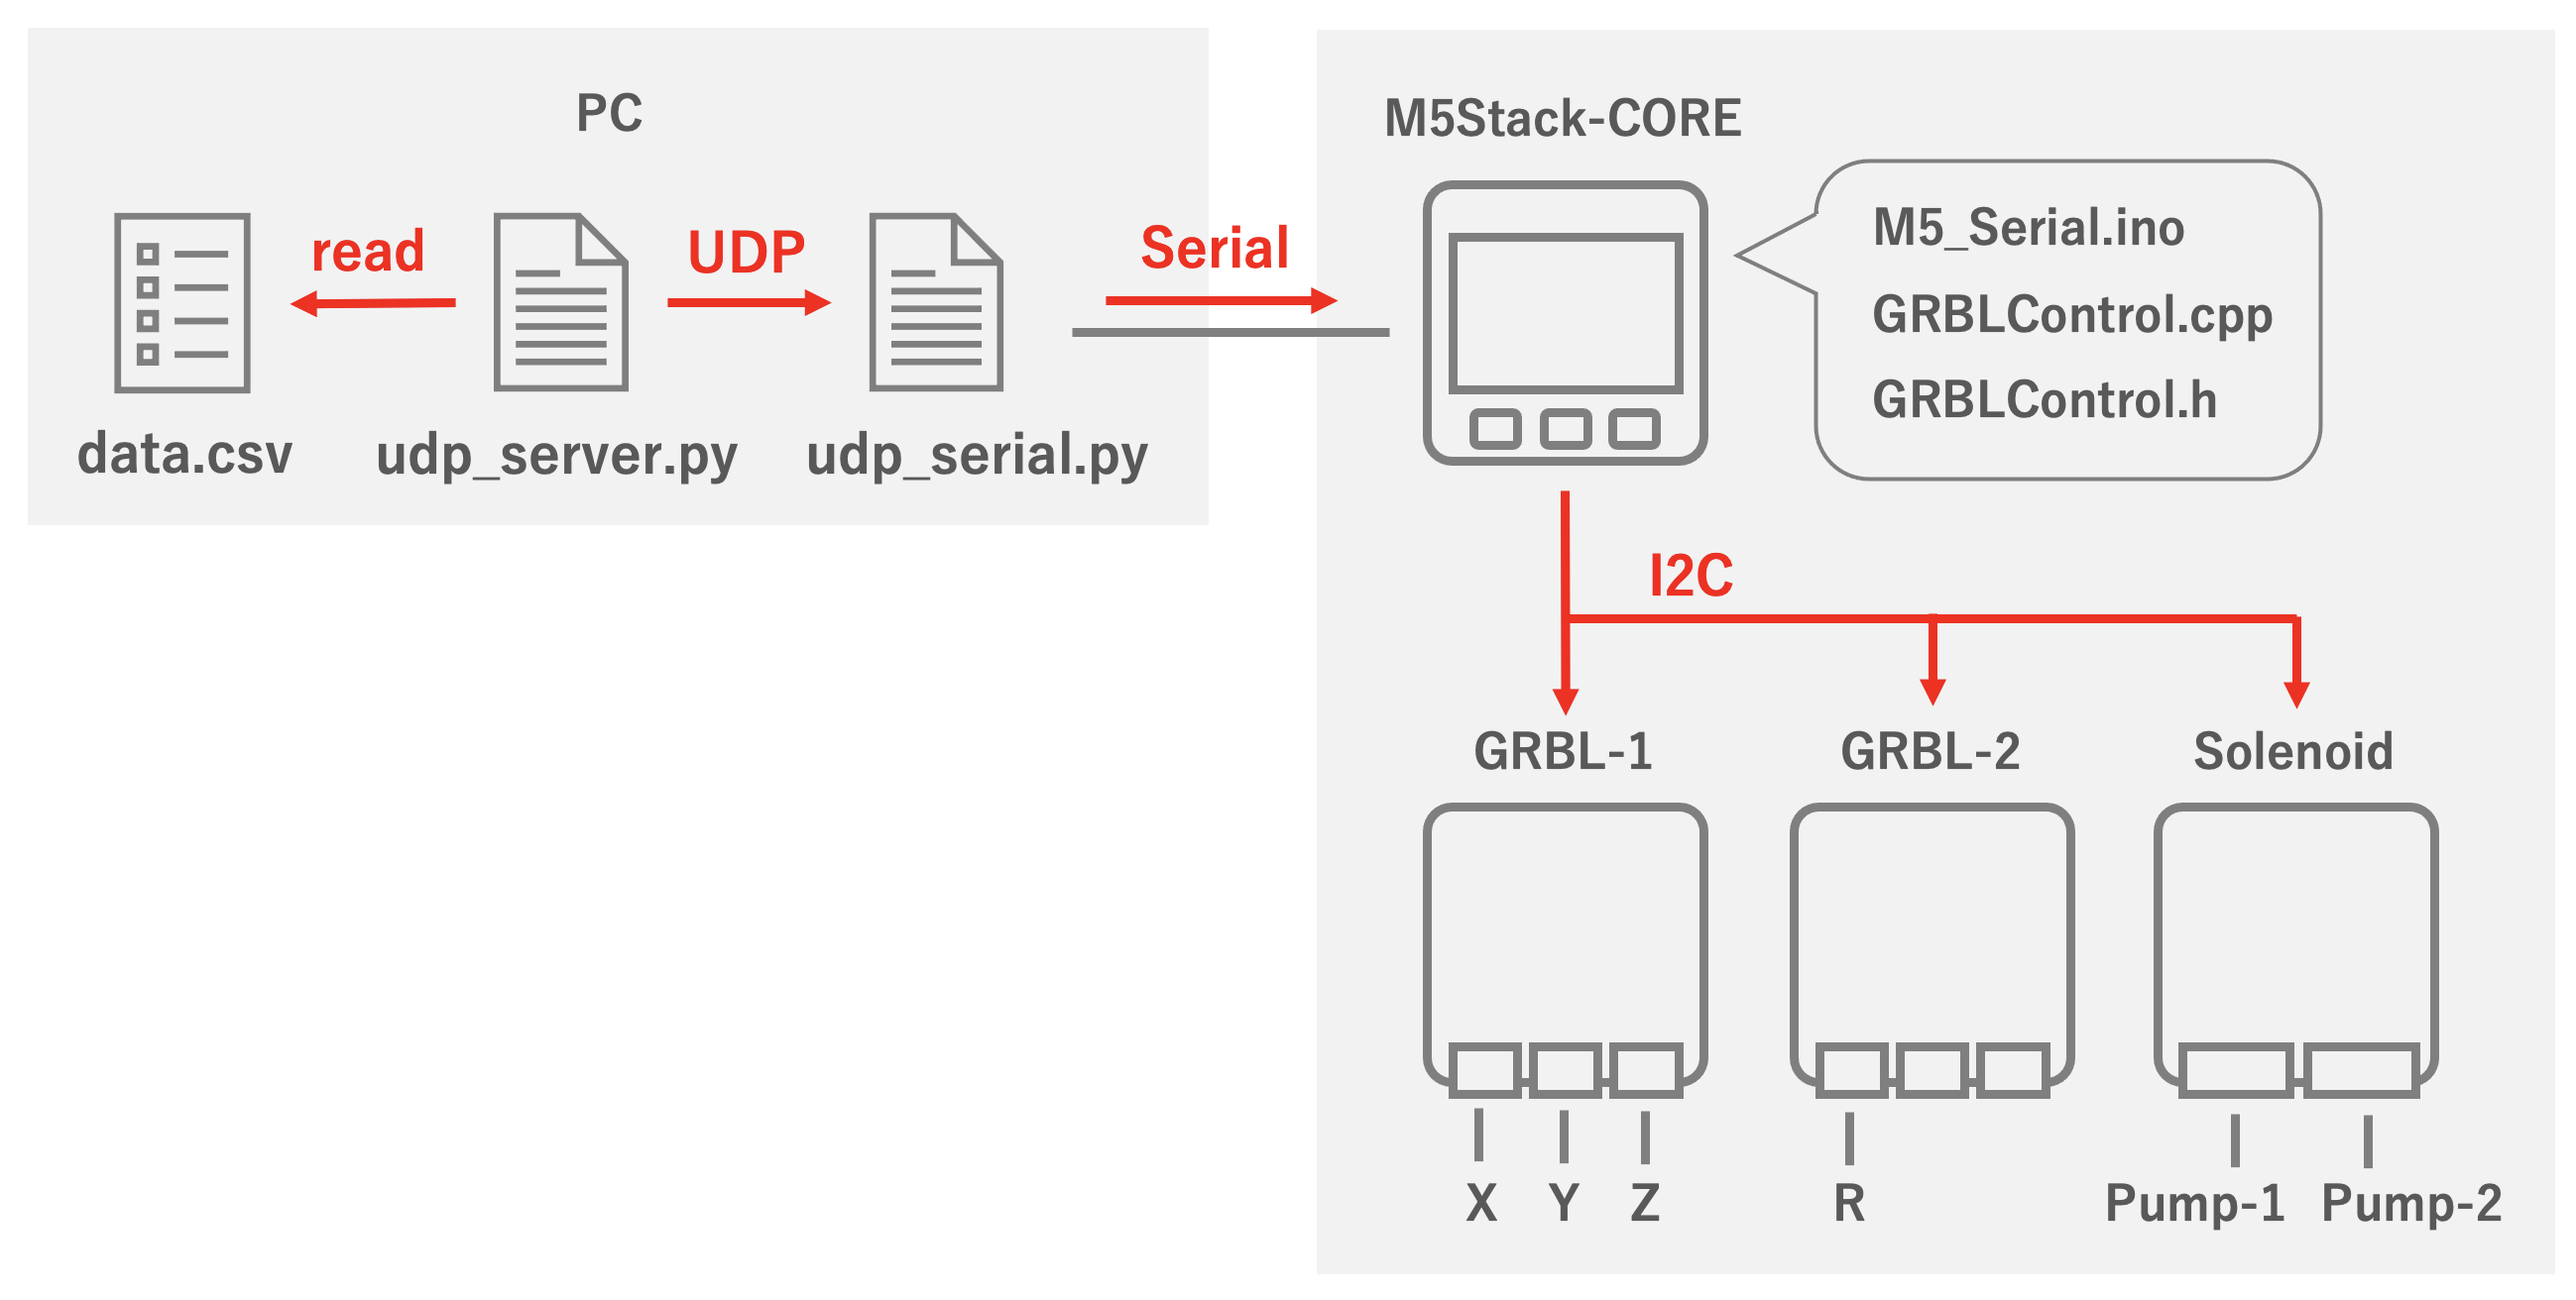
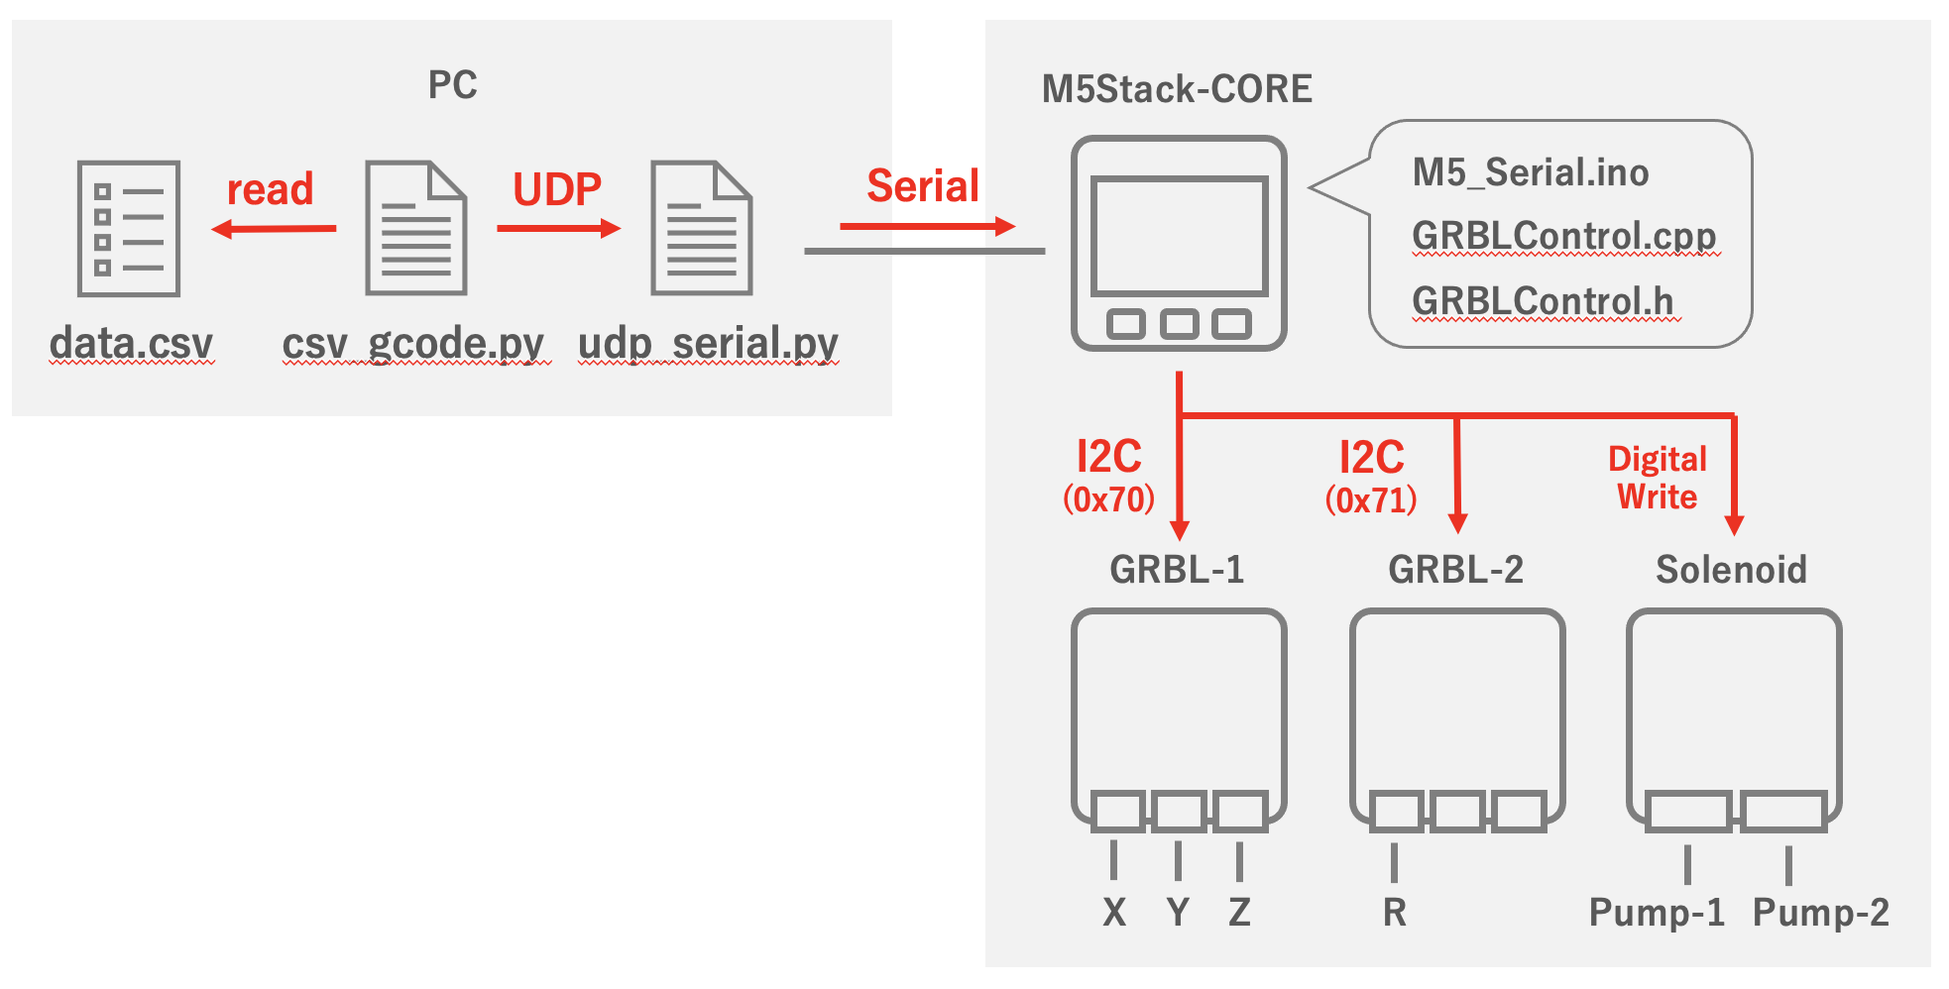
no message

diff --git a/src/csv_gcode.py b/src/csv_gcode.py
@@ -4,9 +4,6 @@ import time
 import os
 import socket
 
-# ---- Serial Setting ---------
-port_name = "/dev/cu.SLAB_USBtoUART"
-speed = 115200
 filePath = '/Users/uchiiukyo/ChipMounter_uchii/data/sample.csv'
 # ---- Fabrication Setting [mm] ----
 trayPosX=[34.000, 30.000]

diff --git a/README.md b/README.md
@@ -1,10 +1,87 @@
 ## ChipMounter
-Junichi Akita (@akita11, akita@ifdl.jp)の作品を参考にしております。  
 参考：https://github.com/akita11/ChipMounter  
+とりあえず、メモ程度にReadMeをまとめる．  
   
-## How to  
-KiCADから出力したCSVファイルを用います。  
-開発中です。  
+## システム
+csv_gcode.pyで作ったGCODEを、udp_serial.py、M5grbl_serial.ino、GRBLモジュールとバケツリレーしながら、ステップモータ等を制御している。  
+  
+## ファイル概要
+・start.command  
+ = csv_serial.pyを実行するコマンドファイル  
+  
+・start-2.command  
+ = udp_serial.pyを実行するコマンドファイル  
+  
+・M5grbl_serial.ino  
+ = M5Stack本体に書き込んであるファームウェア  
+ = Serial通信で受け取ったGCODEをGRBLモジュール等に受け渡す  
+ = UI操作やその他細々とした調整コード  
+  
+・udp_serial.py  
+ = M5Stackと常時シリアルが開通させるためのコード  
+ = UDP通信で受け取ったコマンドをM5Stackに受け渡す  
+  
+・csv_gcode.py  
+ = PC側のメインコード  
+ = CSVファイルからGCODEを生成  
+ = GCODEを決まったタイミングにUDP通信で送信する  
+  
+## 初期設定
+### ダウンロード
+GitHub上からZIP形式でダンロードして解凍する．  
+ファイルはどこにおいてもいい．（後で置き場所のパスを指定する．）  
+  
+### CSVファイルの準備
+セットする基板部品の位置はCSVファイルから読み取る。  
+KiCADから部品位置をまとめたリストが出力できるので、それを少し修正して用いることにした。  
+  
+修正方法  
+・KiCADから出力されたCSVファイルを開く  
+・一番右に新しい行（Tray）を挿入し、部品に対応するTrayIDを入力する  
+  
+### プログラムの準備
+実行環境に合わせてプログラムを少しだけ変更する必要がある。  
+  
+修正箇所１：  
+udp_serial.pyの7行目  
+→ M5Stackと接続できるポート名を指定する  
+  
+修正箇所２：  
+csv_gcode.pyの７行目  
+→ CSVファイルのあるパスを指定する  
+  
+修正箇所３：  
+start.commandの１行目  
+→ csv_gcode.pyがあるパスを指定する  
+start-2.command  
+→ udp_serial.pyがあるパスを指定する  
+  
+### コマンドプロンプトに権限を渡す
+シェルスクリプトでコードを実行するために、用いるコマンドプロンプトに実行権限を付与する必要がある。  
+用いるコマンドプロンプトを開いて、以下のコマンドを入力する。  
+  
+cd [start.commandのあるディレクトリ]  
+chmod u+x start.command  
+chmod u+x start-2.command  
+  
+commandファイルを実行してもエラーが出る場合は、権限が付与されているか確認する。  
+  
+## 使い方
+###　確認
+以下の状態になっているか確認する。  
+・CSVファイルを作成して、コード内にパスを指定してある．  
+・M5StackとPCはUSBで接続されている．  
+・配線が全て繋がっている．(GRBL-1, GRBL-2, Solenoid)  
+・M5Stackの画面に「Chip Mounter」の文字が表示されている  
+  
+### 手順
+start-2.commandを実行する  
+「Ready...」が出力されることを確認する  
+start.commandを実行する  
+（M5Stackの画面が切り替わり操作が実行される）  
+  
+## GRBLモジュールについて
+非常にクセがあって、大変苦労したので、ここにメモとして残しておく。  
   
 ## Author
 Uchii Ukyo  
